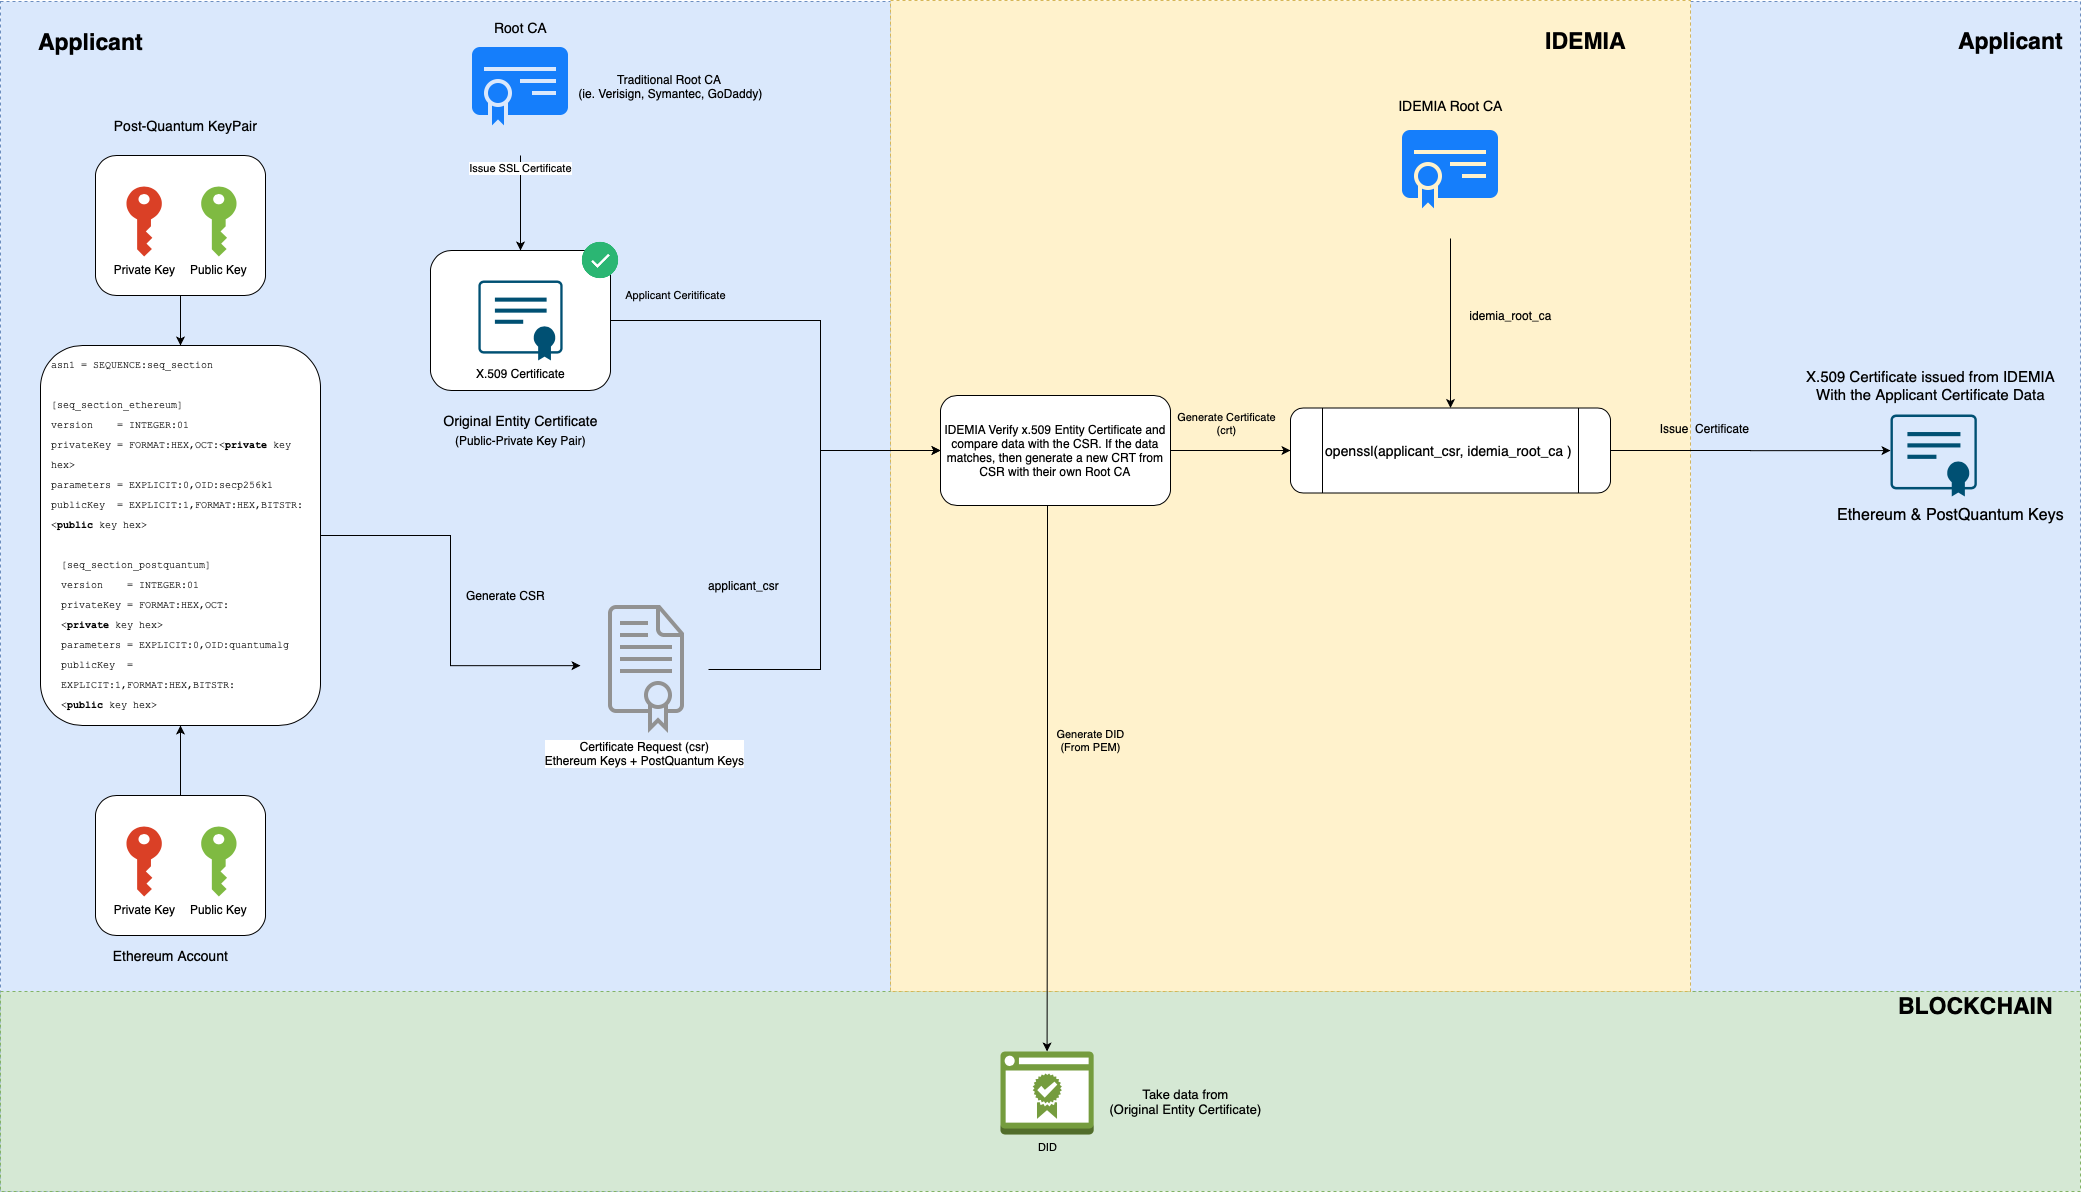
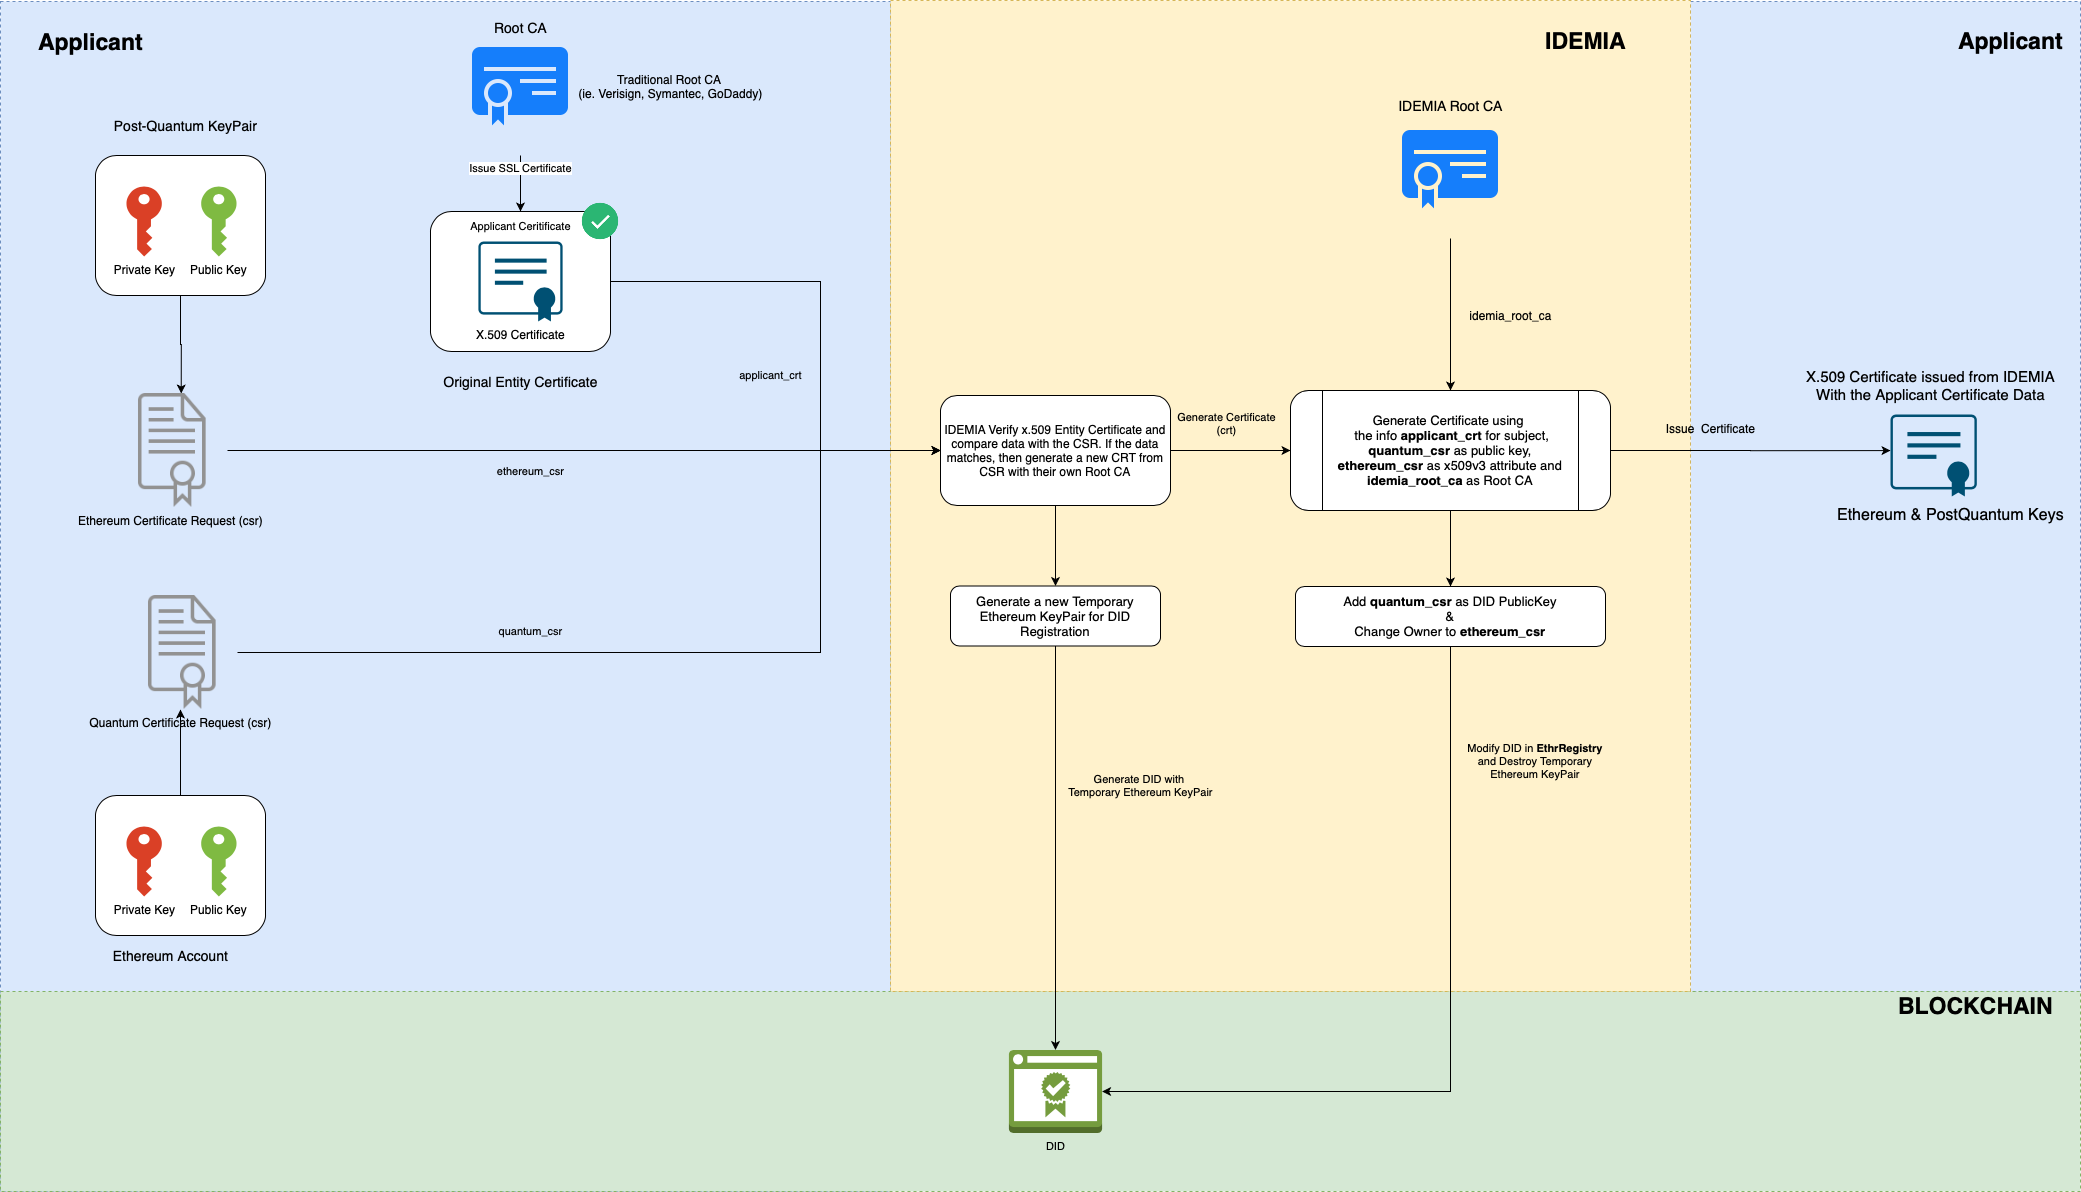
Update Documentation

diff --git a/README.md b/README.md
@@ -9,7 +9,7 @@ As well as, a smart contract in solidity, which is based on the OpenZepellin sta
 # DID Issuance
 In order to register a DID in the DNS service, it must be generated from a valid X.509 certificate. The steps for the generation of the certificates are described in the section below.
 
-![DID Issuance](did_issuance.png?raw=true "DID Issuance Diagram")
+![DID Issuance](did_issuance.png?raw=true "DID Issuance Diagram") 
 
 In the previous diagram it is possible to see the process for the issuance of a DID through a certifying authority, 
 making use of different X.509 certificates validated by a root CA. 
@@ -54,7 +54,6 @@ $ cd ./generator
 $ docker-compose run ethereum
 ```
 
-
 **Note:** Don't forget to change the ``SUBJECT`` environment variable in the docker-compose.yml file. This variable will be passed to the openssl command, refer to [E24191](https://docs.oracle.com/cd/E24191_01/common/tutorials/authz_cert_attributes.html) to see the subject format and fields.
 
 ### 2. Post-Quantum CSR
@@ -70,11 +69,39 @@ $ cd ./generator
 $ docker-compose run quantum
 ```
 
+**Note:** Don't forget to change the ``SUBJECT`` environment variable in the docker-compose.yml file. This variable will be passed to the openssl command, refer to [E24191](https://docs.oracle.com/cd/E24191_01/common/tutorials/authz_cert_attributes.html) to see the subject format and fields.
+
 The previous command will generate a new post-quantum CSR (using Dilithium2 algorithm) in the /out directory, with their respective private key.  
 
-## 3. Generating Certificates and DID
+## 3. Generating Certificate and DID
 
+The process to generate the certificate, and the corresponding DID, is as follows:
+1. The CA (in this case IDEMIA) verifies the subject of Applicant Certificate, Ethereum CSR and Post-Quantum CSR to be equal.
+2. Generate Certificate with Applicant Certificate subject, Post-Quantum Public Key and Ethereum Public Key as x.509 v3 attribute.
+3. Generate a DID with a temporary Ethereum KeyPair
+4. Add the Post-Quantum Public Key to the DID
+5. Change the owner of the DID to Ethereum address from Ethereum CSR
+6. Delete temporary Ethereum KeyPair
 
+The process described above can be performed with the following docker-compose command:
+
+```bash
+$ docker-compose run generator
+$ docker-compose run did
+```
+
+Before to execute the **```did```** docker command, you must edit the environment variables in the docker-compose.yml file.
+
+- ETHR_REGISTRY: "<EthrRegistry Contract Address>"
+- WEB3_RPC: <Ethereum RPC http url>
+- CERTIFICATE: <Certificate File Name>
+- NETWORK_ID: <Ethereum Network ID>
+
+Finally, make sure that you mount the certificate (crt) file in the volumes section.
+``` 
+volumes:
+  - ./out/certificate.crt:/app/<Certificate File Name>
+```
 
 # DApp (Decentralized Application)
 
